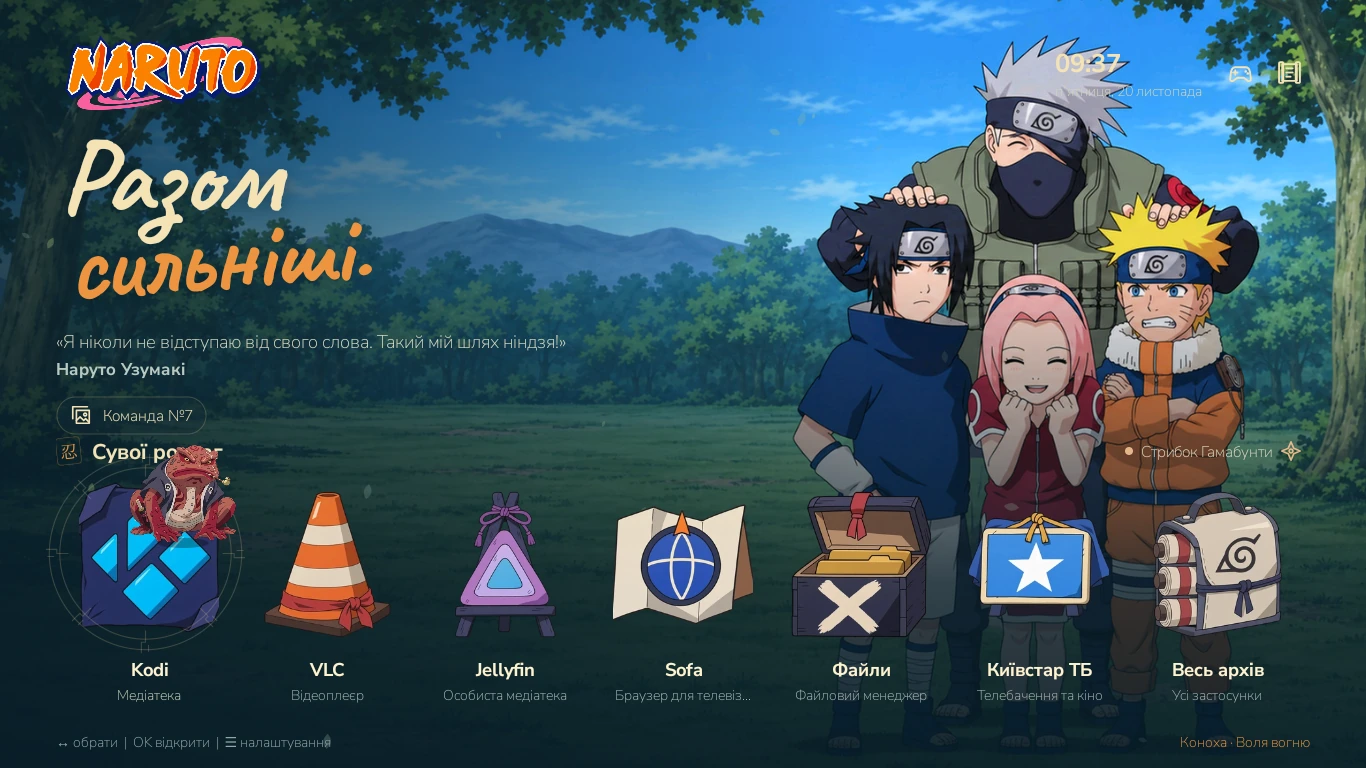
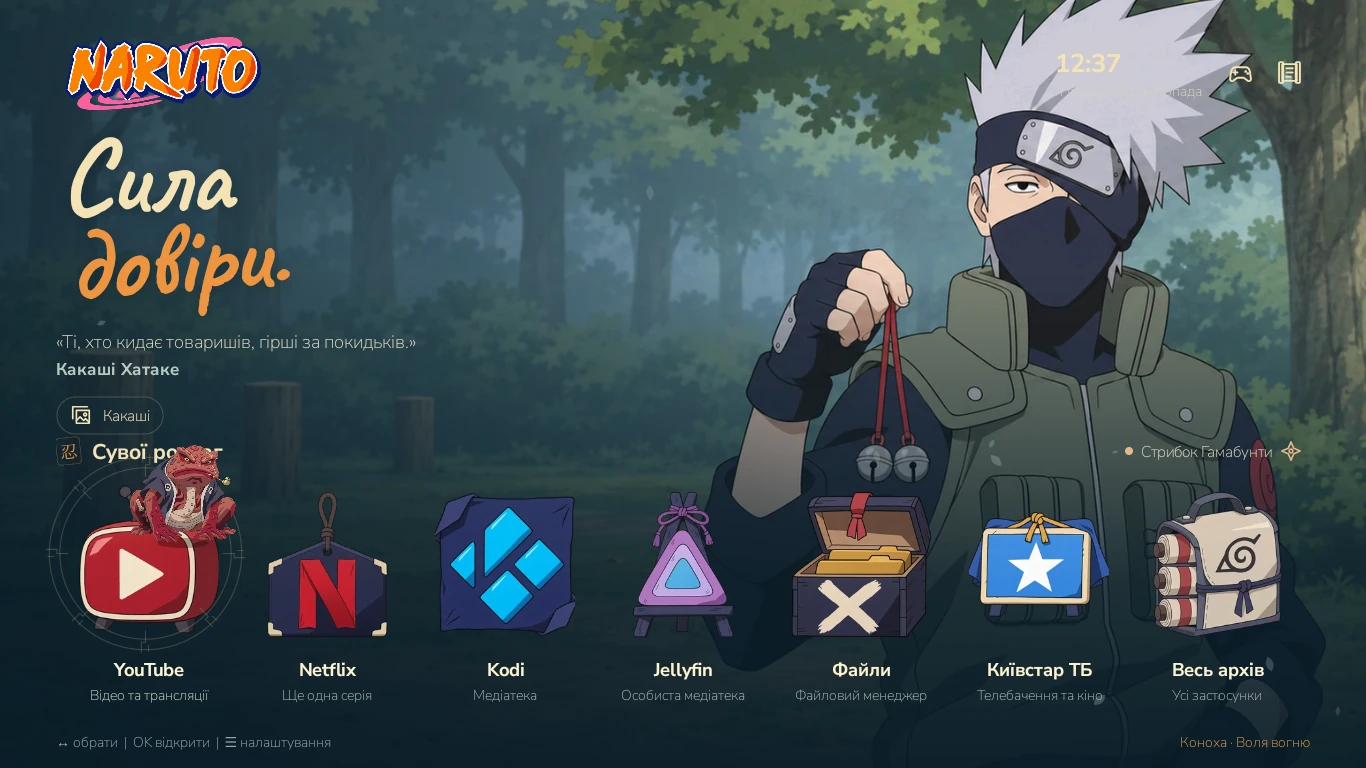
docs: replace Lenovo demo and home screenshot

diff --git a/README.md b/README.md
@@ -14,11 +14,11 @@
 
 ## Відео з Lenovo
 
-https://github.com/user-attachments/assets/ba8a9b31-40d2-4a7a-a2e8-c48b5dcce967
+https://github.com/user-attachments/assets/30e8571c-037a-4ab1-beed-c613dc52b6a9
 
-**00:00** Стрибок Гамабунти · **00:12** Вибір техніки · **00:18** Шарінґан · **00:24** Галерея шпалер · **00:30** Ґаара · **00:34** Налаштування
+**00:00** Стрибок Гамабунти · **00:11** Вибір техніки · **00:18** Шарінґан · **00:24** Галерея шпалер · **00:30** Ґаара · **00:33** Налаштування
 
-Один безперервний запис із Lenovo на LineageOS, демонстраційна збірка 1.1.3. Усі дії виконано стрілками, **OK**, **Menu** і **Back**. Увімкни звук у плеєрі, щоб почути фонову музику від початку й звуки навігації.
+Один безперервний запис із Lenovo на LineageOS, демонстраційна збірка 1.1.4. Усі дії виконано стрілками, **OK**, **Menu** і **Back**. Увімкни звук у плеєрі, щоб почути фонову музику від початку й звуки навігації.
 
 ## Можливості
 
@@ -32,7 +32,7 @@ https://github.com/user-attachments/assets/ba8a9b31-40d2-4a7a-a2e8-c48b5dcce967
 
 | Головний екран | Техніки навігації |
 | --- | --- |
-| [![Головний екран із шістьма обраними застосунками та Стрибком Гамабунти](docs/media/konoha-home.webp)](docs/media/konoha-home.webp) | [![Галерея технік із Расенґаном, Расенсюрикеном і Чідорі](docs/media/konoha-techniques.webp)](docs/media/konoha-techniques.webp) |
+| [![Головний екран зі Стрибком Гамабунти, YouTube і Netflix на початку обраного](docs/media/konoha-home.webp)](docs/media/konoha-home.webp) | [![Галерея технік із Расенґаном, Расенсюрикеном і Чідорі](docs/media/konoha-techniques.webp)](docs/media/konoha-techniques.webp) |
 
 | Галерея сцен | Мінігра «Шлях шинобі» |
 | --- | --- |
